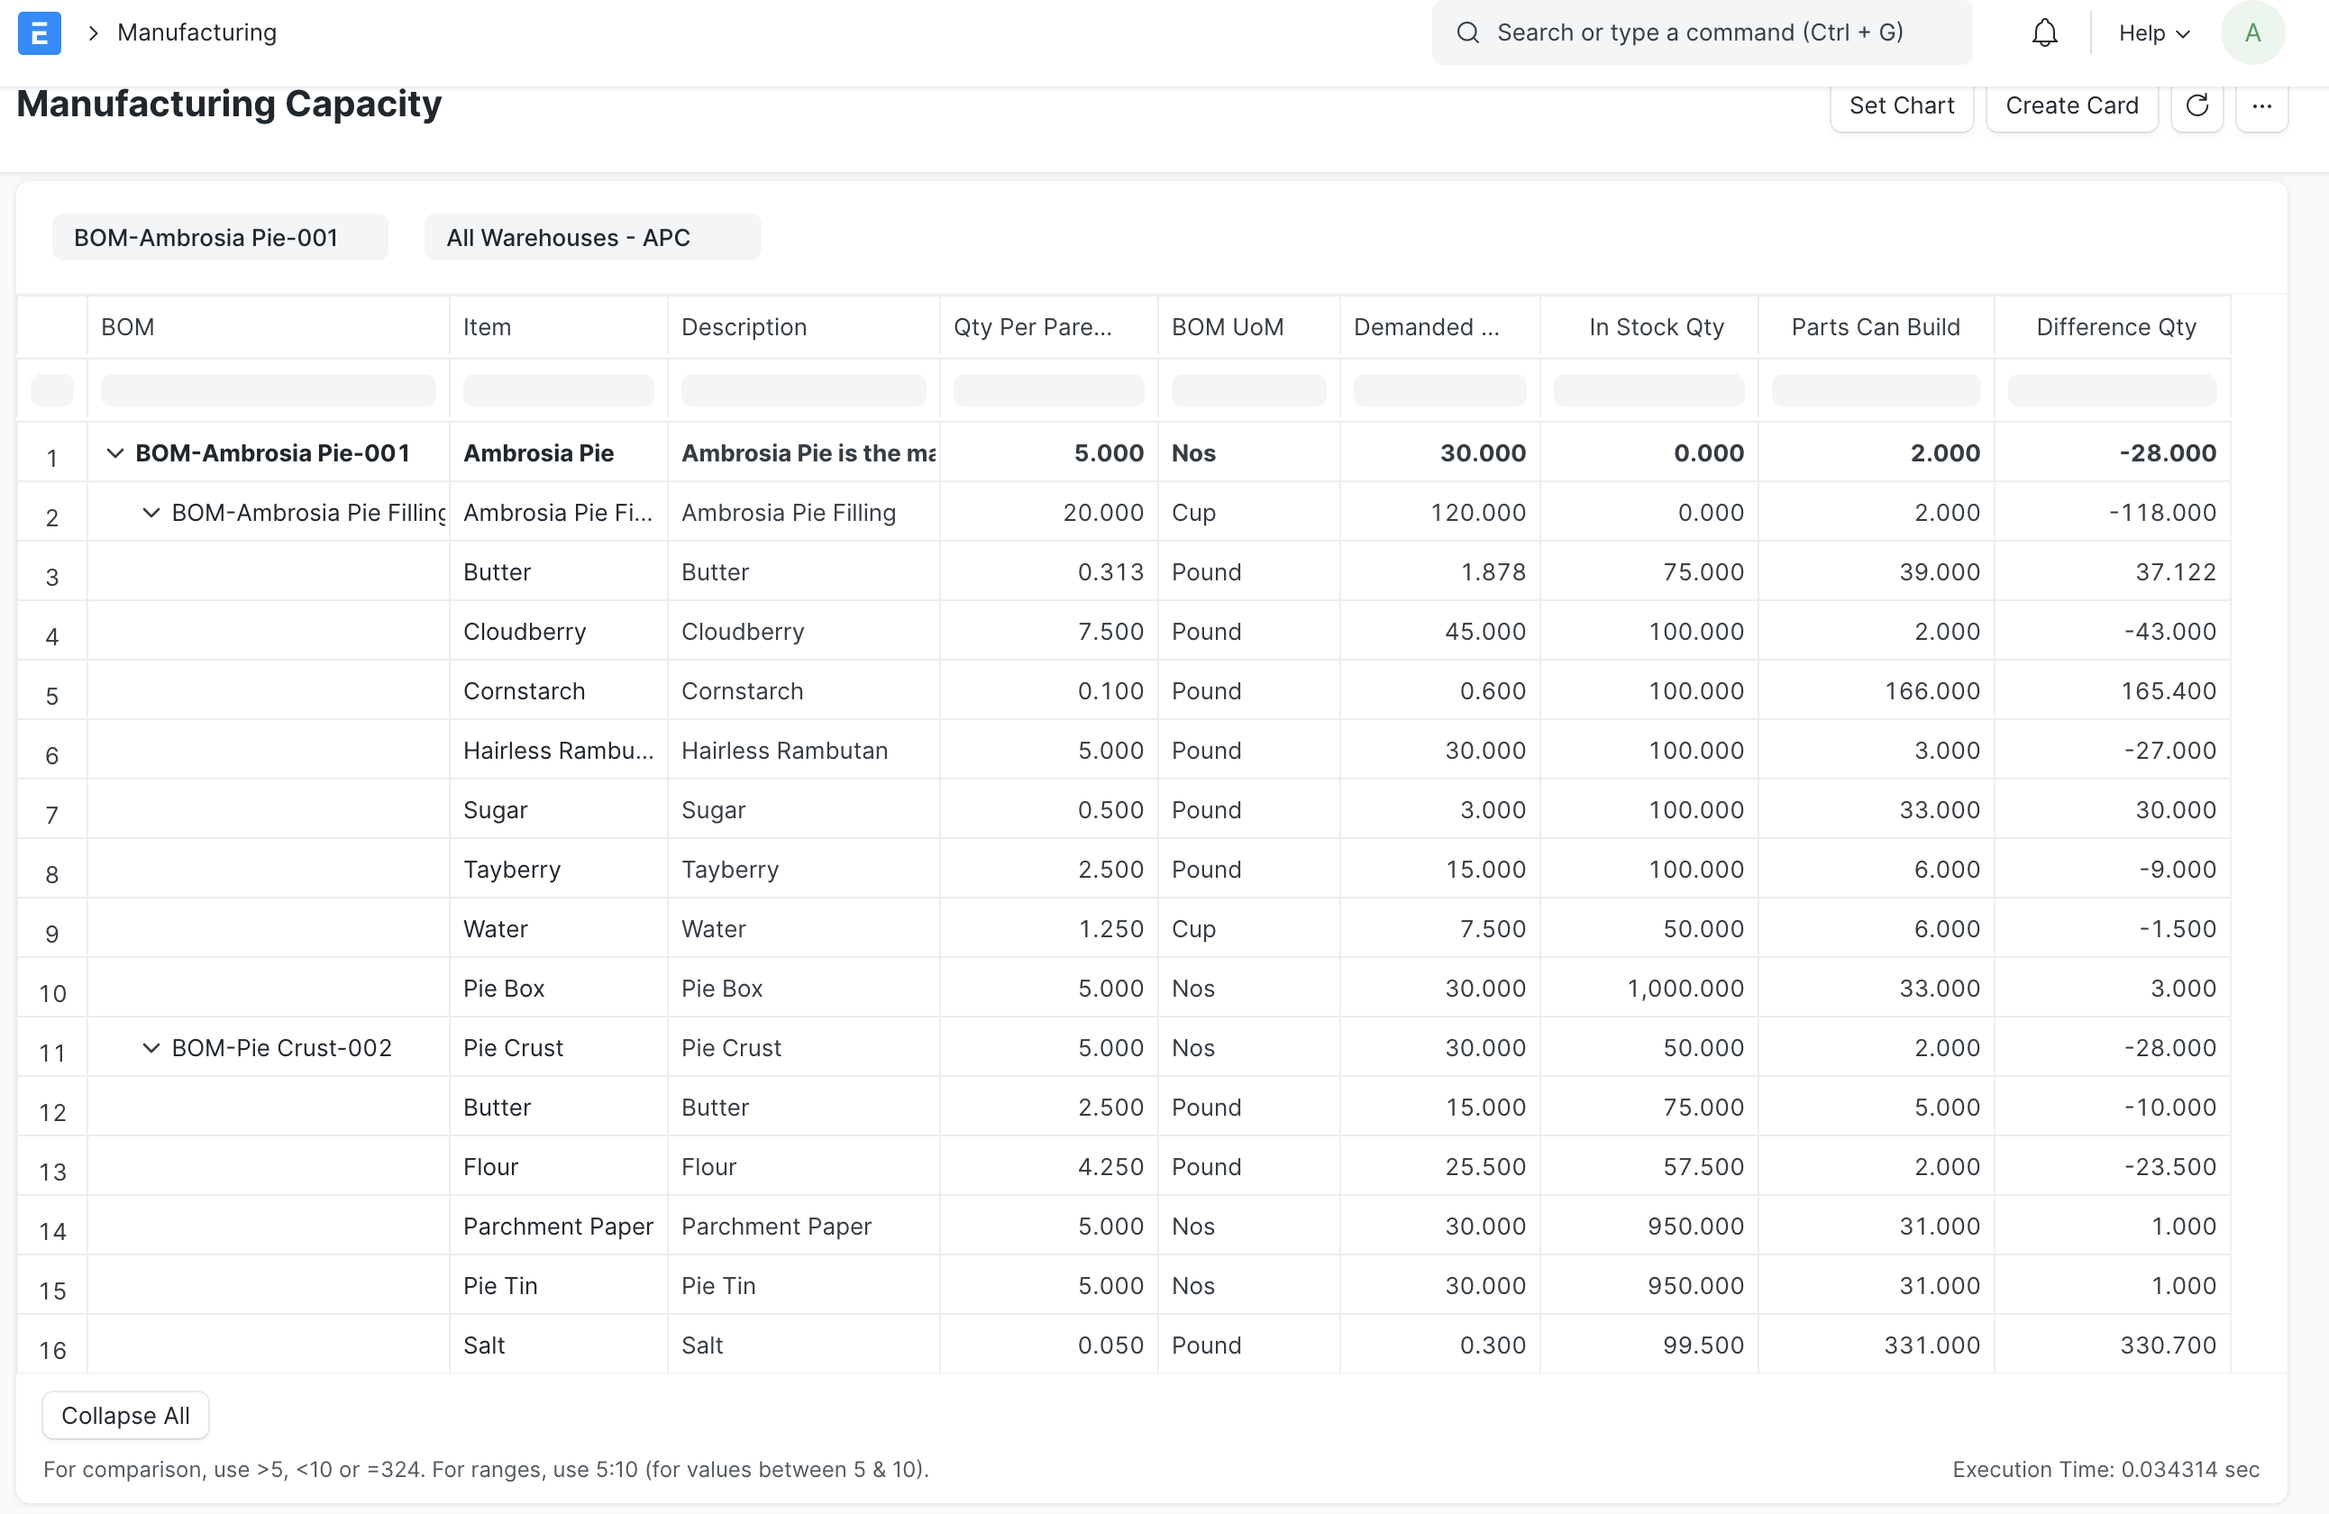
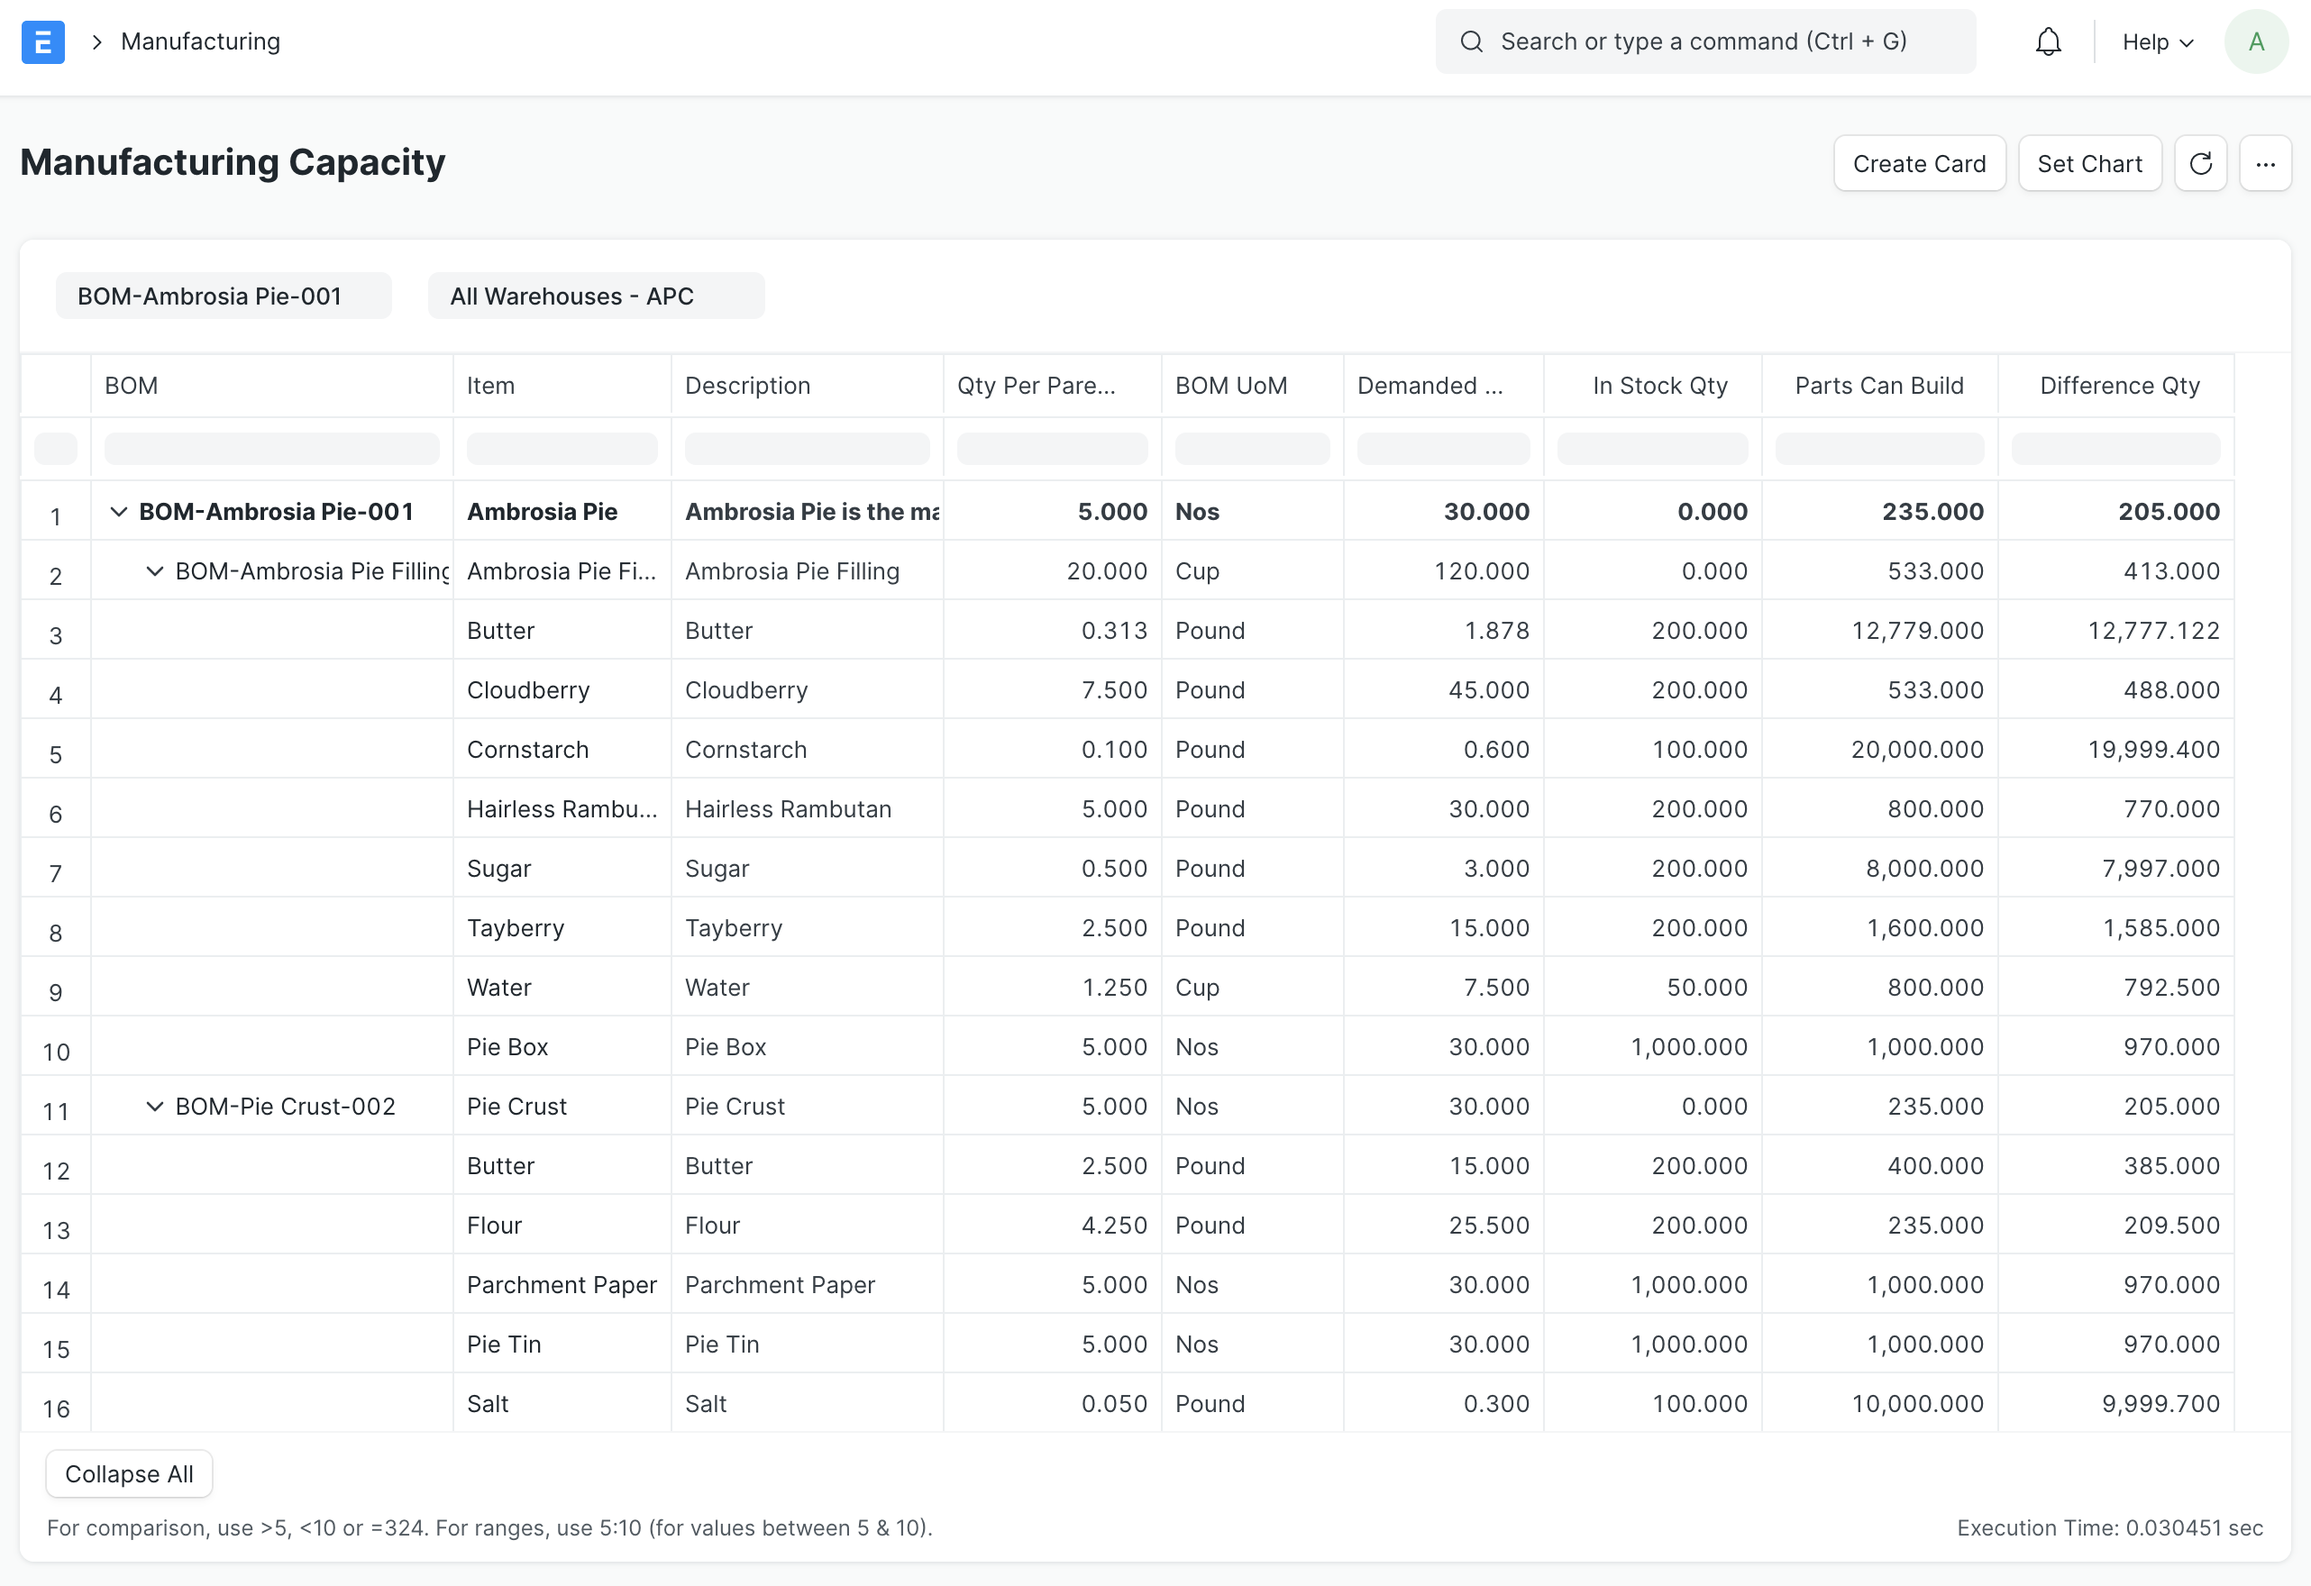
docs: update for calculation differences

diff --git a/inventory_tools/inventory_tools/report/manufacturing_capacity/manufacturing_capacity.py b/inventory_tools/inventory_tools/report/manufacturing_capacity/manufacturing_capacity.py
@@ -9,8 +9,6 @@ from pypika.terms import ExistsCriterion
 
 def execute(filters=None):
 	data = get_data(filters)
-	print("DATA")
-	print(data)
 	return get_columns(filters), data
 
 

diff --git a/inventory_tools/docs/manufacturing_capacity.md b/inventory_tools/docs/manufacturing_capacity.md
@@ -1,5 +1,11 @@
 # Manufacturing Capacity Report
 
-Manufacturing Capacity is a report-based interface that, given a BOM and Warehouse, displays the demand and in-stock quantities for the entire hierarchy of any BOM tree containing that BOM. Once the filters are set, the report traverses the BOM tree to find the top-level parents of the given BOM. From there, it finds total demand based on outstanding Sales Orders, Material Requests (of type "Manufacture"), and Work Orders, adjusting for any overlap. In stock quantities for each level are determined based on the selected Warehouse. The Parts Can Build quantity is based on what is in stock (for non-BOM rows) or the minimum Parts can Build of sub-levels for BOM rows. The calculation assumes that the quantity demanded is one "part" so if the in stock quantity is less than the demanded quantity, then zero "parts" can be built.
+Manufacturing Capacity is a report-based interface that, given a BOM and Warehouse, displays the demand and in-stock quantities for the entire hierarchy of any BOM tree containing that BOM.
+
+Once the filters are set, the report traverses the BOM tree to find the top-level parents of the given BOM. From there, it finds total demand based on outstanding Sales Orders, Material Requests (of type "Manufacture"), and Work Orders, adjusting for any overlap. In stock quantities for each level are determined based on the selected Warehouse. The Parts Can Build quantity is based on what is in stock (for non-BOM/raw material rows) or the minimum Parts can Build of sub-levels for BOM rows.
+
+The Parts Can Build Qty is slightly different for non-BOM vs BOM rows. For non-BOM (raw material) rows, it's the In Stock Qty divided by the Qty per Parent BOM. For BOM rows, it's the minimum of the Parts Can Build for all sub-assemblies. So if a BOM row requires a raw material that isn't in stock, it will show 0 Parts Can Build Qty, even if there are other sub assemblies in stock.
+
+The Difference Qty calculation is also different for non-BOM and BOM rows. Since non-BOM rows account for the In Stock Qty in the Parts Can Build Qty number, the Difference Qty is the Parts Can Build less the Demanded Qty. For BOM rows, since the Parts Can Build Qty is based off available sub-assembly item quantities (and doesn't use the In Stock Qty in that calculation), the Difference Qty is the In Stock Qty plus Parts Can Build Qty less the Demanded Qty.
 
 ![Screen shot showing the Manufacturing Capacity report output for the Ambrosia Pie BOM and all Warehouses. There are rows for all levels of the BOM hierarchy - the Pie itself, sub-level rows for each sub-assembly of the Pie Crust and Pie Filling, with rows below each of those for the raw materials comprising each BOM. Columns include the BOM, Item, Description, Quantity per Parent BOM, BOM UoM, Demanded Quantity, In Stock Quantity, Parts Can Build quantity, and the Difference Quantity (demanded quantity less parts can build quantity).](./assets/manufacturing_capacity_report.png)
